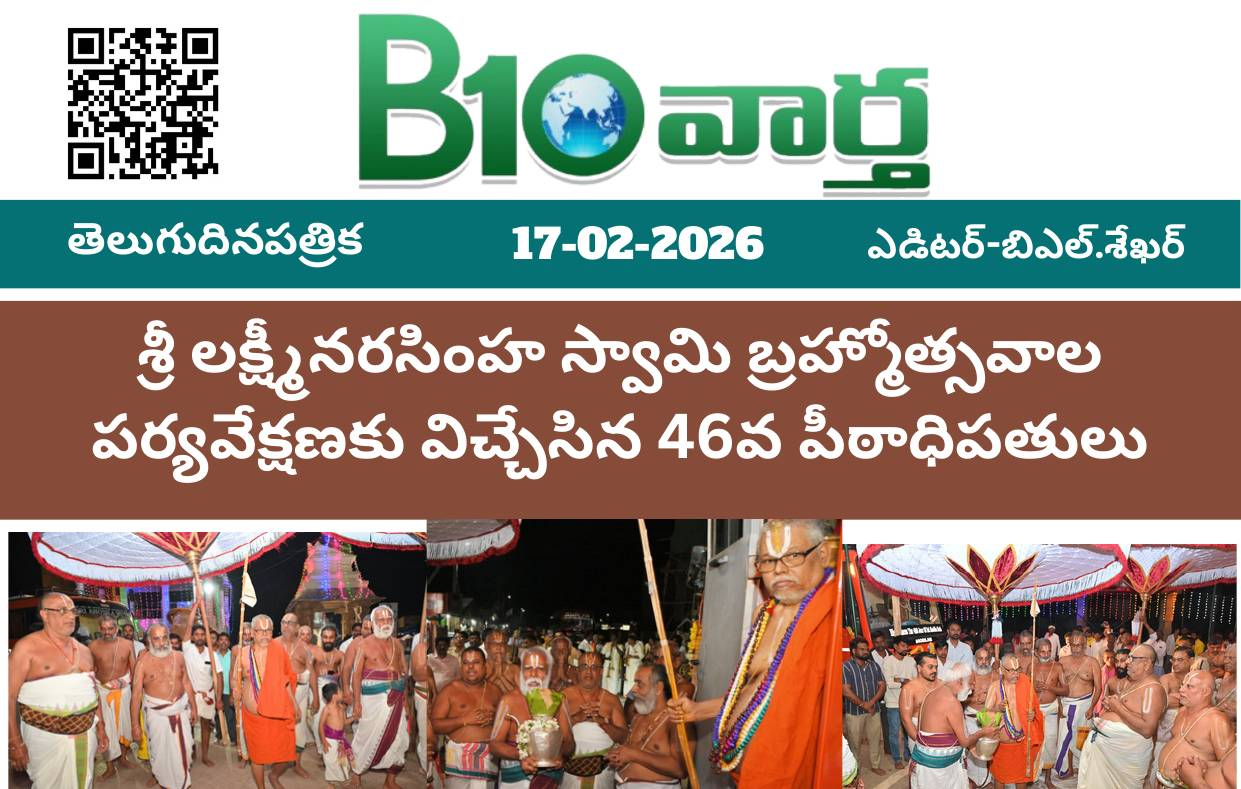
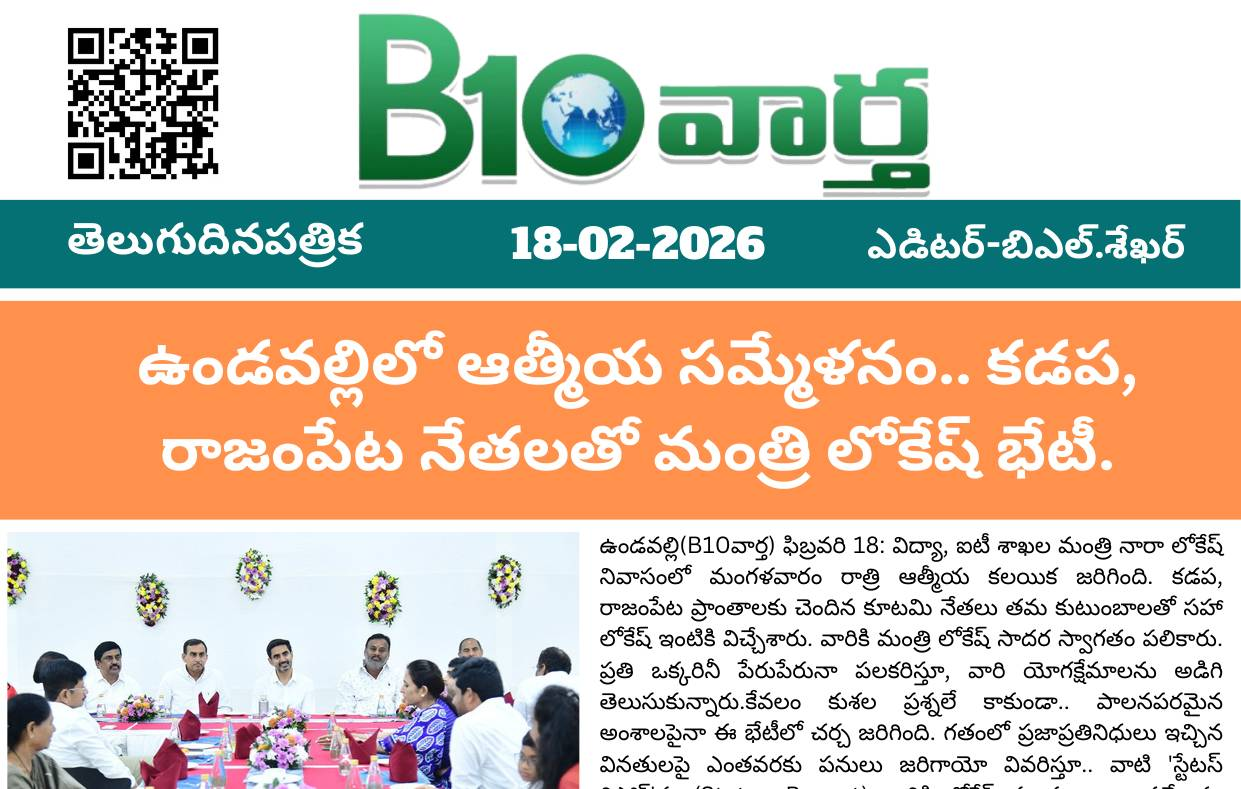
Auto-published edition with SMART CROP

diff --git a/index.html b/index.html
@@ -10,7 +10,7 @@
 
     <meta property="og:title" content="B10 Vartha ePaper - Quality Telugu Journalism">
     <meta property="og:description" content="Read the latest Telugu news daily on our mobile-friendly digital platform.">
-    <meta property="og:image" content="https://epaperb10vartha.in/assets/latest-cover.jpg?v=17-02-2026">
+    <meta property="og:image" content="https://epaperb10vartha.in/assets/latest-cover.jpg?v=18-02-2026_20260218_062032_0000">
     <meta property="og:url" content="https://epaperb10vartha.in/">
     <meta property="og:type" content="website">
     <meta name="twitter:card" content="summary_large_image">

diff --git a/app.js b/app.js
@@ -4,6 +4,7 @@ const REPO_URL = "https://epaperb10vartha.in";
 // DATA 
 const editions = {
     // ROBOT_ENTRY_POINT
+    "18-02-2026_20260218_062032_0000": { pages: 4, pdf: "full.pdf" },
     "17-02-2026": { pages: 4, pdf: "full.pdf" },
     "16-02-2026": { pages: 4, pdf: "full.pdf" },
     "15-02-2026": { pages: 4, pdf: "full.pdf" },
